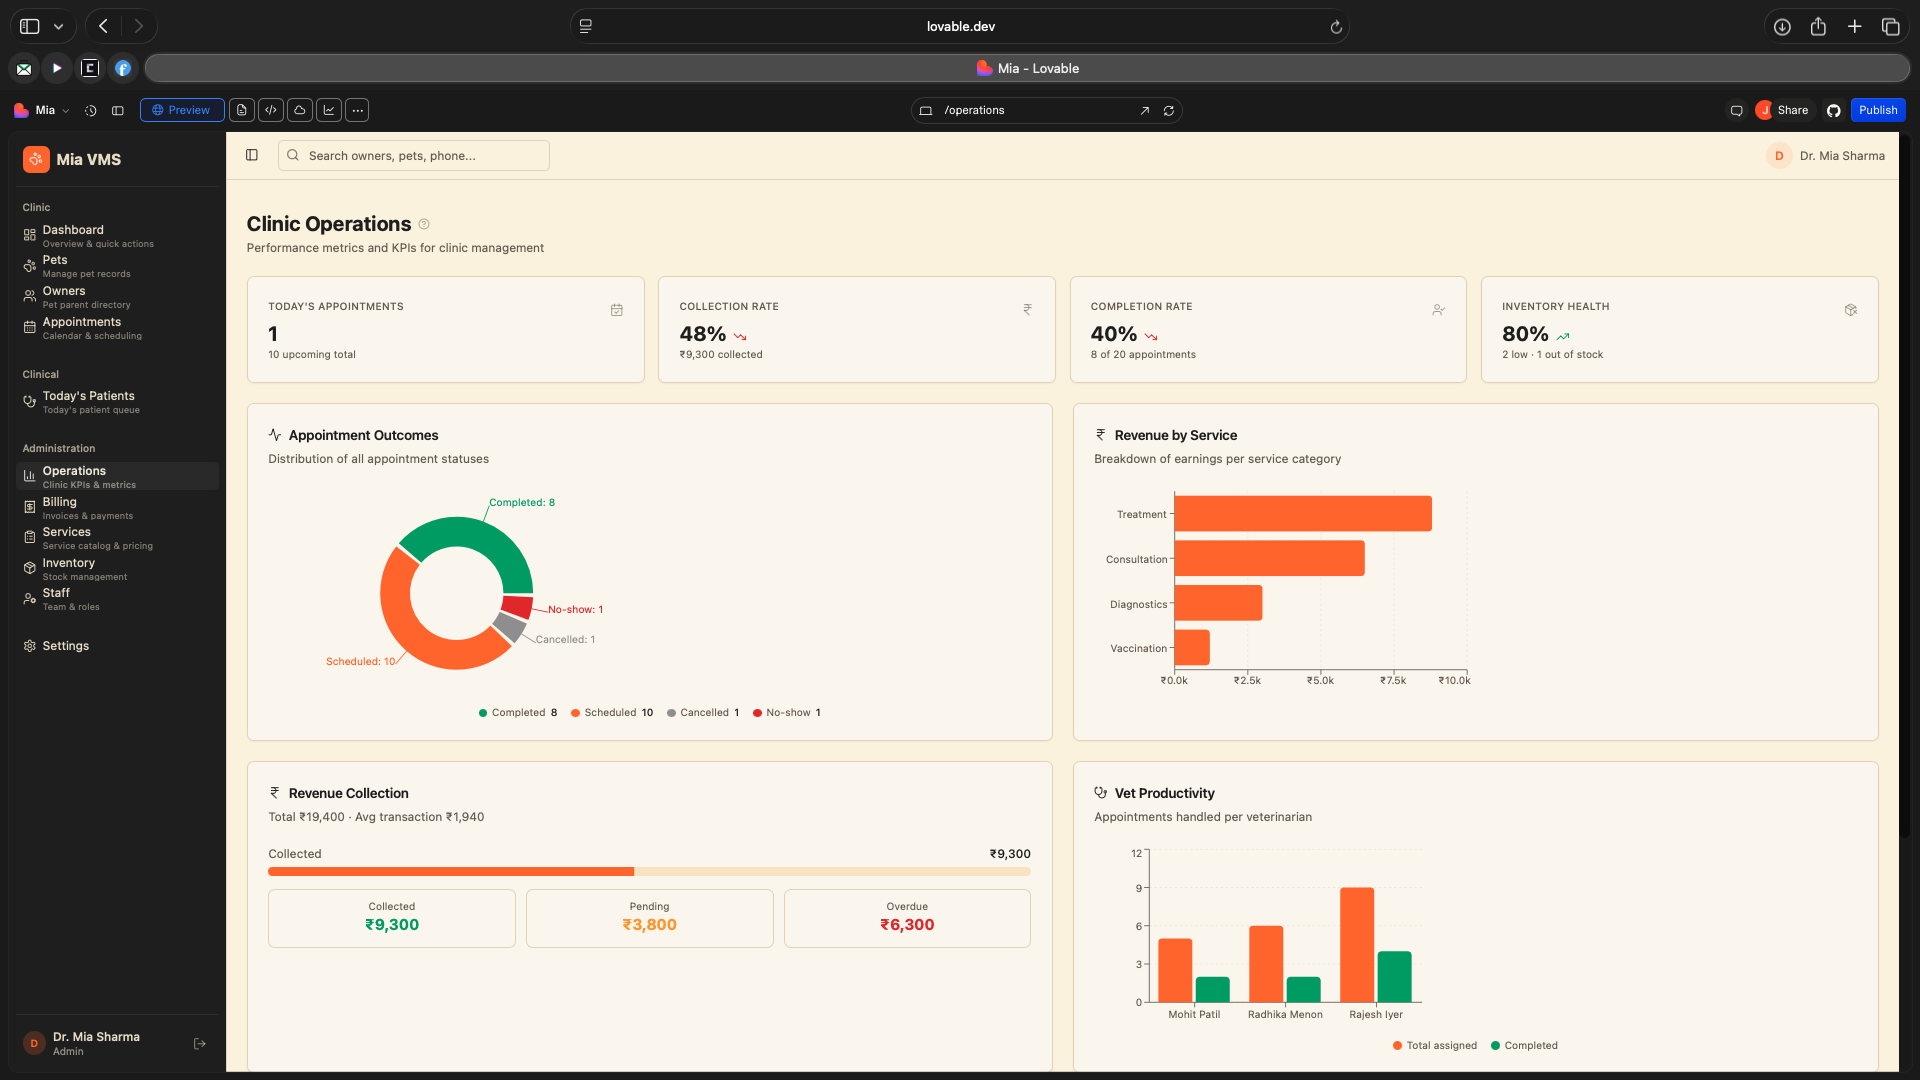
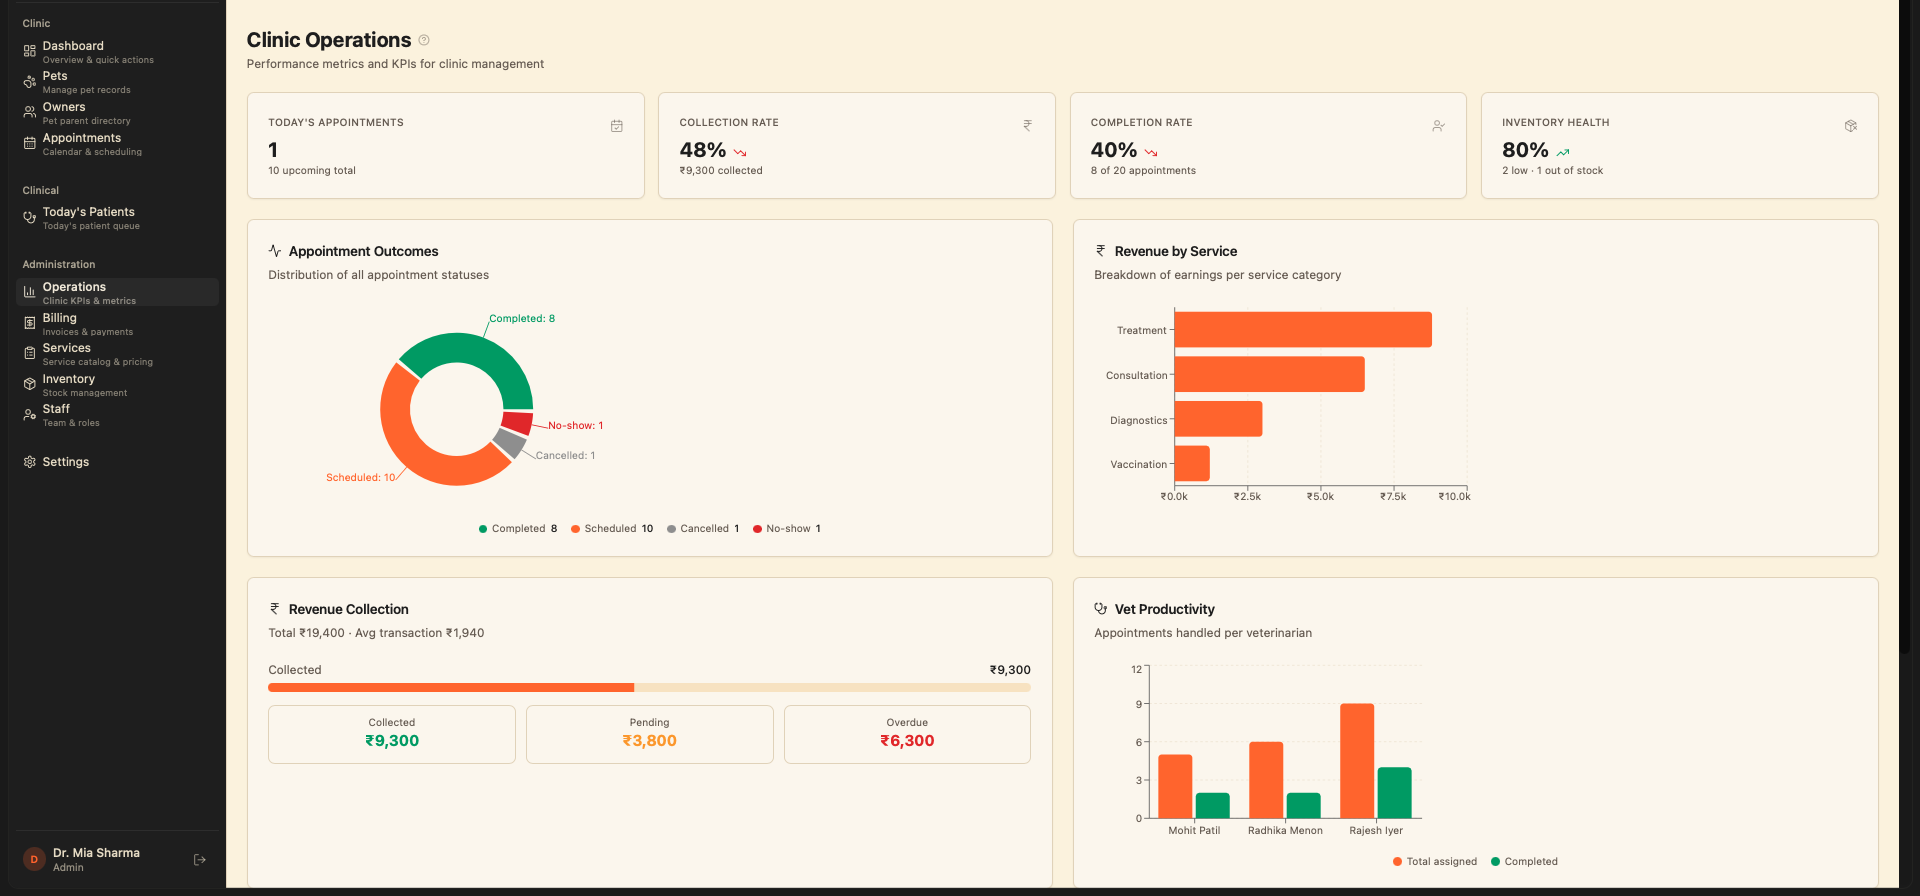
Refresh landing page copy and design
- Updated hero headline to 'Run your clinic, not your paperwork' to resonate with vets
- Revised subtext to emphasize focus on patient care vs. admin work
- Removed 'No credit card' from fine-print (now: '2-week free trial · No commitment')
- Softened color palette - toned down ivory backgrounds for less brightness
- Updated early access section: replaced advisory board perk with 'Join the Digital India Movement'
- Properly cropped all 7 screenshot images to remove browser chrome and UI

These changes give vets a clearer understanding of Mia as a Veterinary Management tool while improving visual hierarchy and copy resonance.

diff --git a/index.html b/index.html
@@ -15,15 +15,15 @@
 /* ── Tokens ── */
 :root {
   /* Core palette */
-  --ivory: #F5E6C5;
+  --ivory: #EDE6D6;
   --organic: #3F422E;
   --apricot: #D78B30;
   --natural: #9F886F;
 
   /* Derived — ivory family */
-  --ivory-light: #FBF4E8;
-  --ivory-mid: #ECD9B4;
-  --ivory-warm: #F0DEC2;
+  --ivory-light: #F5F0E6;
+  --ivory-mid: #E0D5C0;
+  --ivory-warm: #E8DDCA;
 
   /* Derived — organic family */
   --organic-light: #525540;
@@ -117,7 +117,7 @@ section { padding: 56px 0; }
    ═══════════════════════════════════════ */
 nav {
   position: fixed; top: 0; left: 0; right: 0; z-index: 100;
-  background: rgba(245,230,197,0.88); backdrop-filter: blur(16px); -webkit-backdrop-filter: blur(16px);
+  background: rgba(237,230,214,0.88); backdrop-filter: blur(16px); -webkit-backdrop-filter: blur(16px);
   border-bottom: 1px solid var(--border);
 }
 .nav-inner {
@@ -478,12 +478,12 @@ footer .copy { font-size: 0.7rem; color: var(--muted); margin-top: 20px; opacity
 <section class="hero">
   <div class="container">
     <div class="reveal">
-      <h1>Your clinic,<br><span class="italic accent">finally under control.</span></h1>
-      <p class="sub">Appointments, patient records, billing, inventory, and analytics &mdash; one platform, built for Indian clinics. We're looking for 10 vets to trial it free and help shape the product.</p>
+      <h1>Run your clinic,<br><span class="italic accent">not your paperwork.</span></h1>
+      <p class="sub">Appointments, patient records, billing, inventory, and analytics &mdash; one platform that handles the busywork so you can focus on what you do best: treating animals.</p>
       <button class="btn" onclick="openModal()">Apply for the free trial
         <svg viewBox="0 0 24 24" fill="none" stroke="currentColor" stroke-width="2" stroke-linecap="round" stroke-linejoin="round"><path d="M5 12h14M12 5l7 7-7 7"/></svg>
       </button>
-      <p class="fine-print">2-week trial &middot; No credit card &middot; No commitment</p>
+      <p class="fine-print">2-week free trial &middot; No commitment</p>
     </div>
   </div>
 </section>
@@ -662,8 +662,8 @@ footer .copy { font-size: 0.7rem; color: var(--muted); margin-top: 20px; opacity
     </div>
     <ul class="perk-list reveal">
       <li><svg viewBox="0 0 24 24"><polyline points="20 6 9 17 4 12"/></svg>Personal demo and unrestricted access to every module for 2 weeks</li>
-      <li><svg viewBox="0 0 24 24"><polyline points="20 6 9 17 4 12"/></svg>A seat on our advisory board &mdash; your feedback shapes what we build</li>
-      <li><svg viewBox="0 0 24 24"><polyline points="20 6 9 17 4 12"/></svg>Completely free.</li>
+      <li><svg viewBox="0 0 24 24"><polyline points="20 6 9 17 4 12"/></svg>Completely free &mdash; no strings attached</li>
+      <li><svg viewBox="0 0 24 24"><polyline points="20 6 9 17 4 12"/></svg>Join the Digital India Movement &mdash; help modernize veterinary care across the country</li>
     </ul>
     <div class="reveal">
       <button class="btn" onclick="openModal()">Apply for the free trial

diff --git a/crop_safari_chrome.py b/crop_safari_chrome.py
@@ -1,0 +1,151 @@
+#!/usr/bin/env python3
+"""
+Script to crop Safari browser chrome from Mia VMS app screenshots.
+Detects where Safari UI ends and actual app content begins by analyzing color transitions.
+"""
+
+from PIL import Image
+import os
+from pathlib import Path
+
+def find_chrome_end(image_path):
+    """
+    Find where Safari browser chrome ends by analyzing pixel rows from top.
+
+    Safari chrome typically includes:
+    - Tabs bar (~25-30px) - usually gray/light
+    - URL bar (~35-40px) - usually white
+    - Total chrome height: ~60-75px
+
+    The app content (Mia VMS) typically has:
+    - Dark sidebar on left
+    - Light content area
+
+    Returns the y-coordinate where app content begins.
+    """
+    img = Image.open(image_path)
+    pixels = img.load()
+    width, height = img.size
+
+    # Sample the middle of the image width to avoid edges
+    sample_x = width // 2
+
+    # Look for a significant color change that indicates end of chrome
+    # Chrome is typically lighter (tabs/URL bar), app content has darker sidebar
+    prev_brightness = None
+    max_brightness_drop = 0
+    chrome_end = 0
+
+    for y in range(min(150, height)):  # Only check first 150 pixels max
+        # Get pixel at this y coordinate
+        r, g, b = pixels[sample_x, y][:3]  # Get RGB (ignore alpha if present)
+        brightness = (r + g + b) / 3
+
+        # Look for significant brightness drop
+        if prev_brightness is not None:
+            brightness_drop = prev_brightness - brightness
+            if brightness_drop > max_brightness_drop:
+                max_brightness_drop = brightness_drop
+                chrome_end = y
+
+        prev_brightness = brightness
+
+    # Add some margin and round up to nearest pixel
+    # Typically the chrome ends around 60-75px
+    if chrome_end < 40:  # Minimum threshold
+        chrome_end = 70  # Fallback to estimate
+    else:
+        chrome_end = min(chrome_end + 5, 85)  # Add small margin, cap at 85px
+
+    return chrome_end
+
+
+def crop_image(image_path, crop_top):
+    """Crop image from the top by removing specified number of pixels."""
+    try:
+        img = Image.open(image_path)
+        width, height = img.size
+
+        # Crop: (left, top, right, bottom)
+        cropped = img.crop((0, crop_top, width, height))
+
+        # Save back to same file
+        cropped.save(image_path, quality=95)
+
+        original_height = height
+        new_height = cropped.size[1]
+        removed_pixels = original_height - new_height
+
+        return {
+            'file': os.path.basename(image_path),
+            'original_size': (width, original_height),
+            'new_size': cropped.size,
+            'removed_pixels': removed_pixels,
+            'status': 'success'
+        }
+    except Exception as e:
+        return {
+            'file': os.path.basename(image_path),
+            'status': 'error',
+            'error': str(e)
+        }
+
+
+def main():
+    img_dir = '/Users/jishnunarasimhamoorthy/Desktop/vet-clinic-landing/img'
+
+    # List of image files to process
+    images = [
+        'dashboard.png',
+        'patient.png',
+        'owner.png',
+        'calendar.png',
+        'queue.png',
+        'services.png',
+        'operations.png'
+    ]
+
+    print("Safari Chrome Cropping Tool")
+    print("=" * 60)
+
+    # First, analyze one image to determine chrome height
+    first_image_path = os.path.join(img_dir, images[0])
+    chrome_end = find_chrome_end(first_image_path)
+
+    print(f"\nAnalyzing first image ({images[0]})...")
+    print(f"Detected Safari chrome ends at pixel: {chrome_end}")
+    print(f"Will remove top {chrome_end} pixels from all images\n")
+
+    # Process all images
+    results = []
+    for image_name in images:
+        image_path = os.path.join(img_dir, image_name)
+
+        if not os.path.exists(image_path):
+            print(f"❌ {image_name} - File not found")
+            continue
+
+        result = crop_image(image_path, chrome_end)
+        results.append(result)
+
+        if result['status'] == 'success':
+            print(f"✓ {image_name}")
+            print(f"  Original: {result['original_size']}")
+            print(f"  New:      {result['new_size']}")
+            print(f"  Removed:  {result['removed_pixels']}px from top")
+        else:
+            print(f"✗ {image_name} - Error: {result['error']}")
+
+    # Summary
+    print("\n" + "=" * 60)
+    successful = sum(1 for r in results if r['status'] == 'success')
+    print(f"Processed: {successful}/{len(results)} images successfully")
+
+    if successful == len(results):
+        print("All images cropped successfully!")
+    else:
+        print("Some images encountered errors.")
+
+
+if __name__ == '__main__':
+    main()
